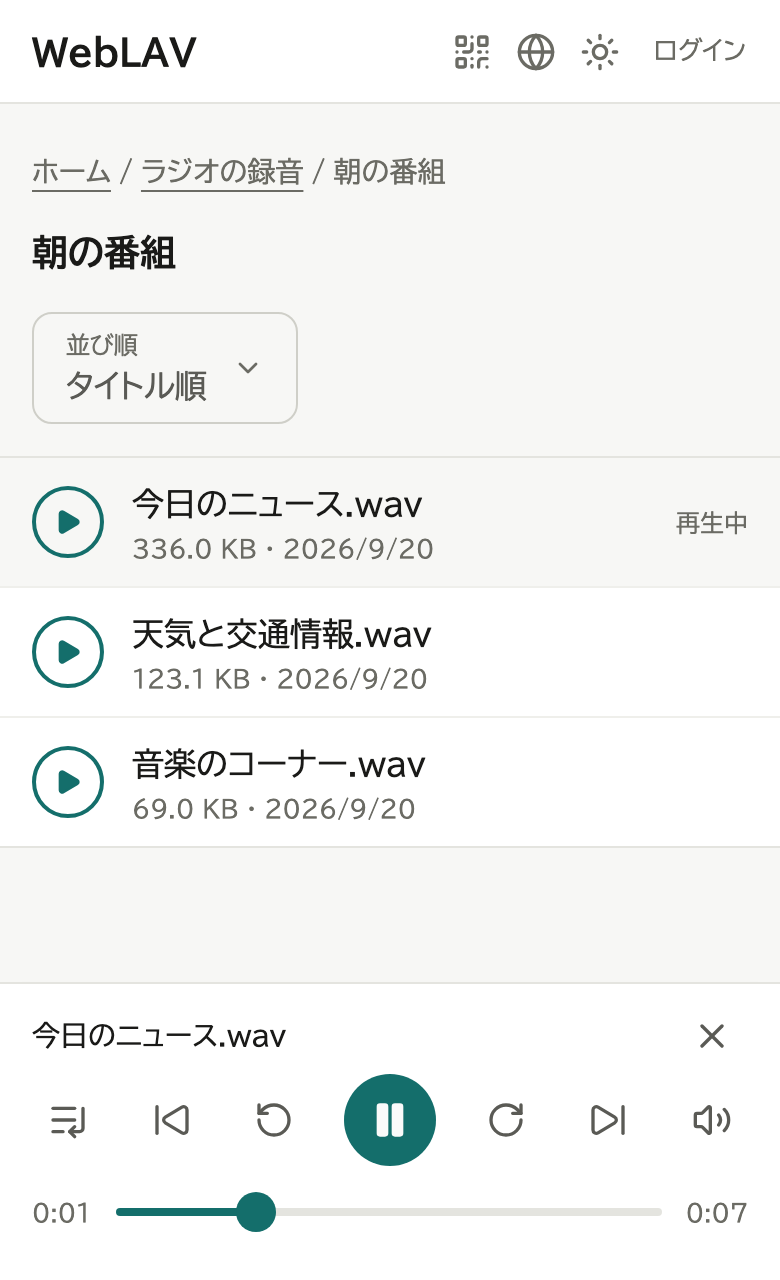
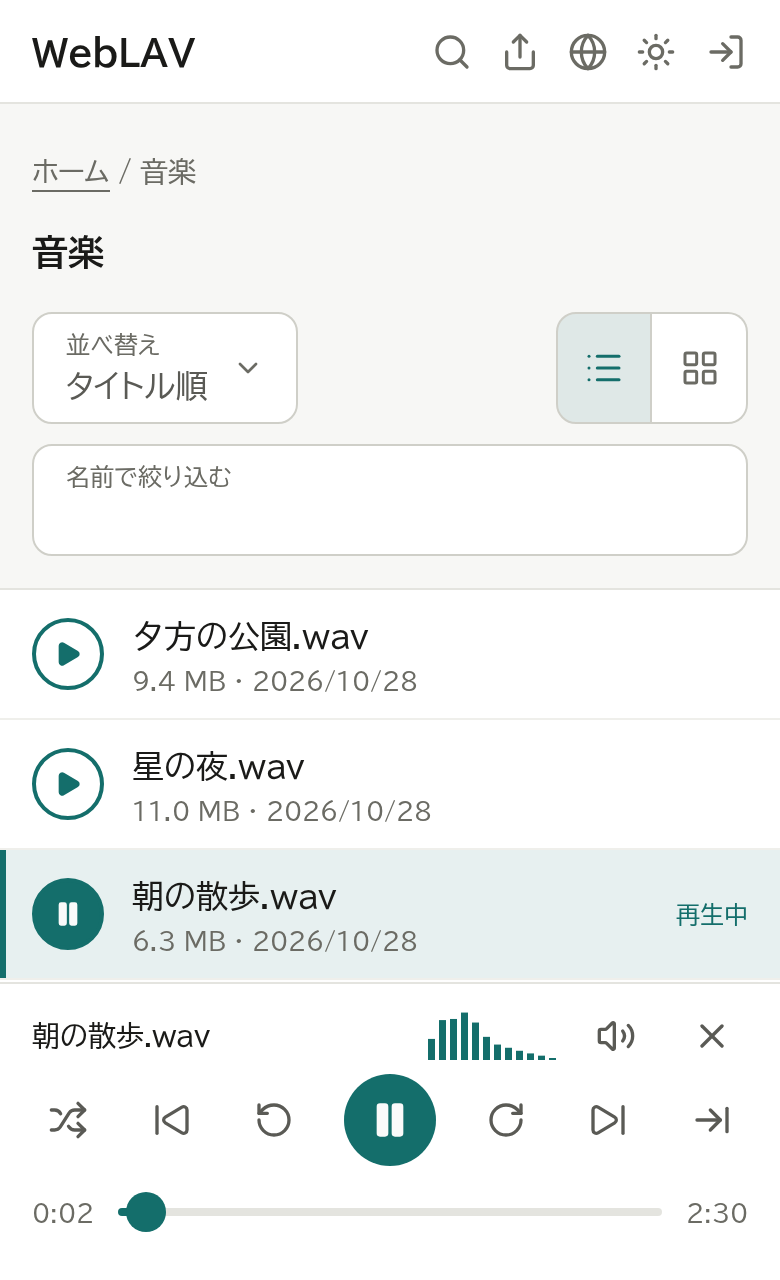
紹介のサイトの画面の画像を、今のアプリで撮り直す
ホーム・音声・PDF の一覧・管理画面の画像が、検索・共有のボタン、名前で絞り込む欄、並べ方の切り替え、プレイヤーのリピートとシャッフルより前の見た目だった。サンプルは、接続の画像やストアの画面写真と同じものにそろえた。

diff --git a/site/src/content/index.md b/site/src/content/index.md
@@ -8,7 +8,7 @@ lead: |
 badges: [無料, Windows, Mac, Linux]
 hero:
   - src: ./images/phone-home.png
-    alt: スマホの画面。グループ「よく見るサイト」と、「ラジオの録音」「家族の写真」「資料」「音楽」のフォルダーが縦に並んでいる
+    alt: スマホの画面。グループ「よく見るサイト」、ファイル「今月の予定」、「写真」「資料」「音楽」のフォルダーが縦に並んでいる
   - src: ./images/tablet-pdf.png
     alt: タブレットの画面。「資料」フォルダーの中の3つの PDF が、ファイル名・サイズ・日付つきで並んでいる
 color: '#0d5f63'
@@ -34,7 +34,7 @@ status: coming-soon
 
 音声は、一覧から選ぶと画面の下のプレイヤーで再生できます。
 
-![スマホの画面。ラジオの録音の「朝の番組」の音声が並び、画面の下のプレイヤーで「今日のニュース.wav」を再生している](./images/phone-audio.png)
+![スマホの画面。「音楽」フォルダーの音声が並び、画面の下のプレイヤーで「朝の散歩.wav」を再生している](./images/phone-audio.png)
 
 PDF・動画・画像も、ページの中でそのまま開けます。
 
@@ -46,7 +46,7 @@ PDF・動画・画像も、ページの中でそのまま開けます。
 
 見せるものは、パソコンのブラウザーの管理画面で登録します。
 
-![パソコンのブラウザーの管理画面。「コンテンツ管理」に、フォルダー・グループ・リンクが、種類・公開範囲・作成者つきで並んでいる](./images/desktop-admin-contents.png)
+![パソコンのブラウザーの管理画面。「コンテンツの管理」に、フォルダー・ファイル・グループ・リンクが、種類・公開範囲・作成者つきで並んでいる](./images/desktop-admin-contents.png)
 
 ## 使う流れ
 
